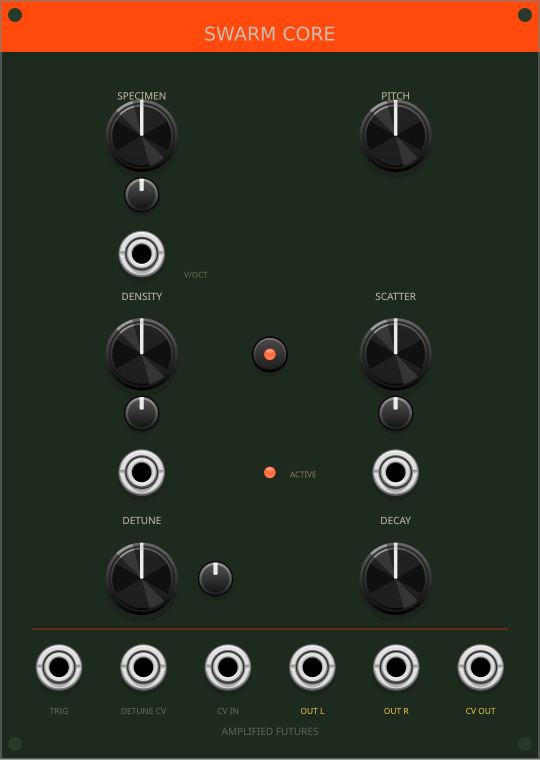
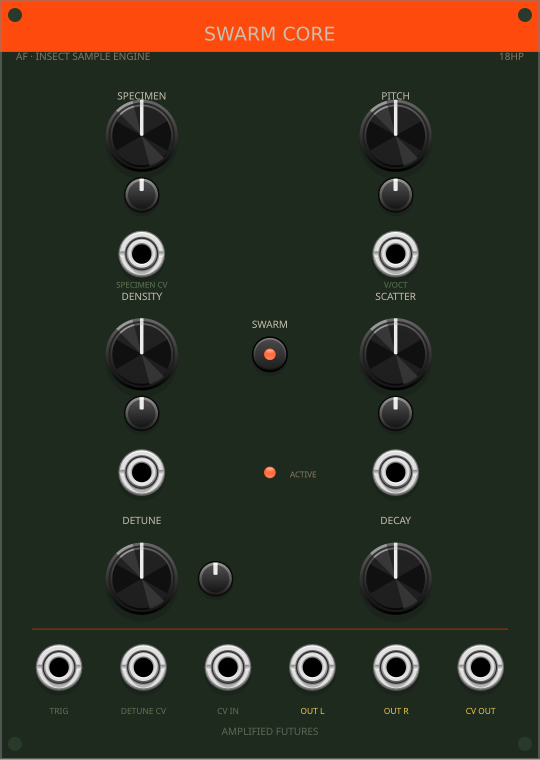
fix(SwarmCore): PITCH gets its own satellites; SPECIMEN gets CV
PITCH_ATT and VOCT_INPUT sat under the SPECIMEN knob while PITCH had nothing
beneath it - the attenuverter scales V/OCT into pitch, so it belongs with PITCH.
That misplacement is what left the dead region beside PITCH.

SPECIMEN now has the satellite pair it never had. A sample engine whose specimen
cannot be sequenced only ever plays one insect per patch.

Two labels were styled fill:none and rendered nothing - which is why this was the
only panel with no subheader. Removed, and the subheader restored. The mode
button is labelled for the first time.

Appended param and input; the attenuverter defaults to 0, so an unpatched
SPECIMEN CV changes nothing.

diff --git a/src/SwarmCore.cpp b/src/SwarmCore.cpp
@@ -186,6 +186,8 @@ struct SwarmCore : Module {
         DETUNE_ATT_PARAM,
         // mode button
         MODE_PARAM,
+        // appended - never insert above this line (Rack serialises by position)
+        SPECIMEN_ATT_PARAM,
         PARAMS_LEN
     };
     enum InputId {
@@ -196,6 +198,7 @@ struct SwarmCore : Module {
         DETUNE_INPUT,
         // appended - never insert above this line (Rack serialises by position)
         CV_INPUT,
+        SPECIMEN_CV_INPUT,
         INPUTS_LEN
     };
     enum OutputId {
@@ -244,6 +247,8 @@ struct SwarmCore : Module {
         configParam(SCATTER_ATT_PARAM, -1.f, 1.f, 0.f, "Scatter CV atten");
         configParam(DETUNE_ATT_PARAM,  -1.f, 1.f, 0.f, "Detune CV atten");
         configSwitch(MODE_PARAM, 0.f, 1.f, 0.f, "Mode", {"Specimen", "Swarm"});
+        configParam(SPECIMEN_ATT_PARAM, -1.f, 1.f, 0.f, "Specimen attenuverter");
+        configInput(SPECIMEN_CV_INPUT, "Specimen select CV");
         configInput(TRIG_INPUT,    "Trigger");
         configInput(VOCT_INPUT,    "V/OCT");
         configInput(DENSITY_INPUT, "Density CV");
@@ -295,7 +300,10 @@ struct SwarmCore : Module {
         int numSamples = (int)bank.size();
         int sampleIdx = 0;
         if (numSamples > 0) {
-            float sel = clamp(params[SPECIMEN_PARAM].getValue(), 0.f, 1.f);
+            float sel = clamp(params[SPECIMEN_PARAM].getValue()
+                            + params[SPECIMEN_ATT_PARAM].getValue()
+                              * inputs[SPECIMEN_CV_INPUT].getVoltage() / 10.f,
+                              0.f, 1.f);
             sampleIdx = (int)(sel * (numSamples - 1));
         }
         int nativesr = (numSamples > 0) ? bank[sampleIdx].sr : 44100;
@@ -444,10 +452,15 @@ struct SwarmCoreWidget : ModuleWidget {
 
         // Row 1 — SPECIMEN, PITCH
         addParam(createParamCentered<RoundLargeBlackKnob>(mm2px(Vec(x1, ky1)), module, SwarmCore::SPECIMEN_PARAM));
-        addParam(createParamCentered<Trimpot>(mm2px(Vec(x1, ky1 + attenDy)), module, SwarmCore::PITCH_ATT_PARAM));
-        addInput(createInputCentered<PJ301MPort>(mm2px(Vec(x1, ky1 + cvDy)), module, SwarmCore::VOCT_INPUT));
+        addParam(createParamCentered<Trimpot>(mm2px(Vec(x1, ky1 + attenDy)), module, SwarmCore::SPECIMEN_ATT_PARAM));
+        addInput(createInputCentered<PJ301MPort>(mm2px(Vec(x1, ky1 + cvDy)), module, SwarmCore::SPECIMEN_CV_INPUT));
 
+        // PITCH keeps its own satellites. They used to sit under SPECIMEN,
+        // which left this column empty and attached the attenuverter to the
+        // wrong knob.
         addParam(createParamCentered<RoundLargeBlackKnob>(mm2px(Vec(x2, ky1)), module, SwarmCore::PITCH_PARAM));
+        addParam(createParamCentered<Trimpot>(mm2px(Vec(x2, ky1 + attenDy)), module, SwarmCore::PITCH_ATT_PARAM));
+        addInput(createInputCentered<PJ301MPort>(mm2px(Vec(x2, ky1 + cvDy)), module, SwarmCore::VOCT_INPUT));
 
         // Row 2 — DENSITY, SCATTER
         addParam(createParamCentered<RoundLargeBlackKnob>(mm2px(Vec(x1, ky2)), module, SwarmCore::DENSITY_PARAM));
